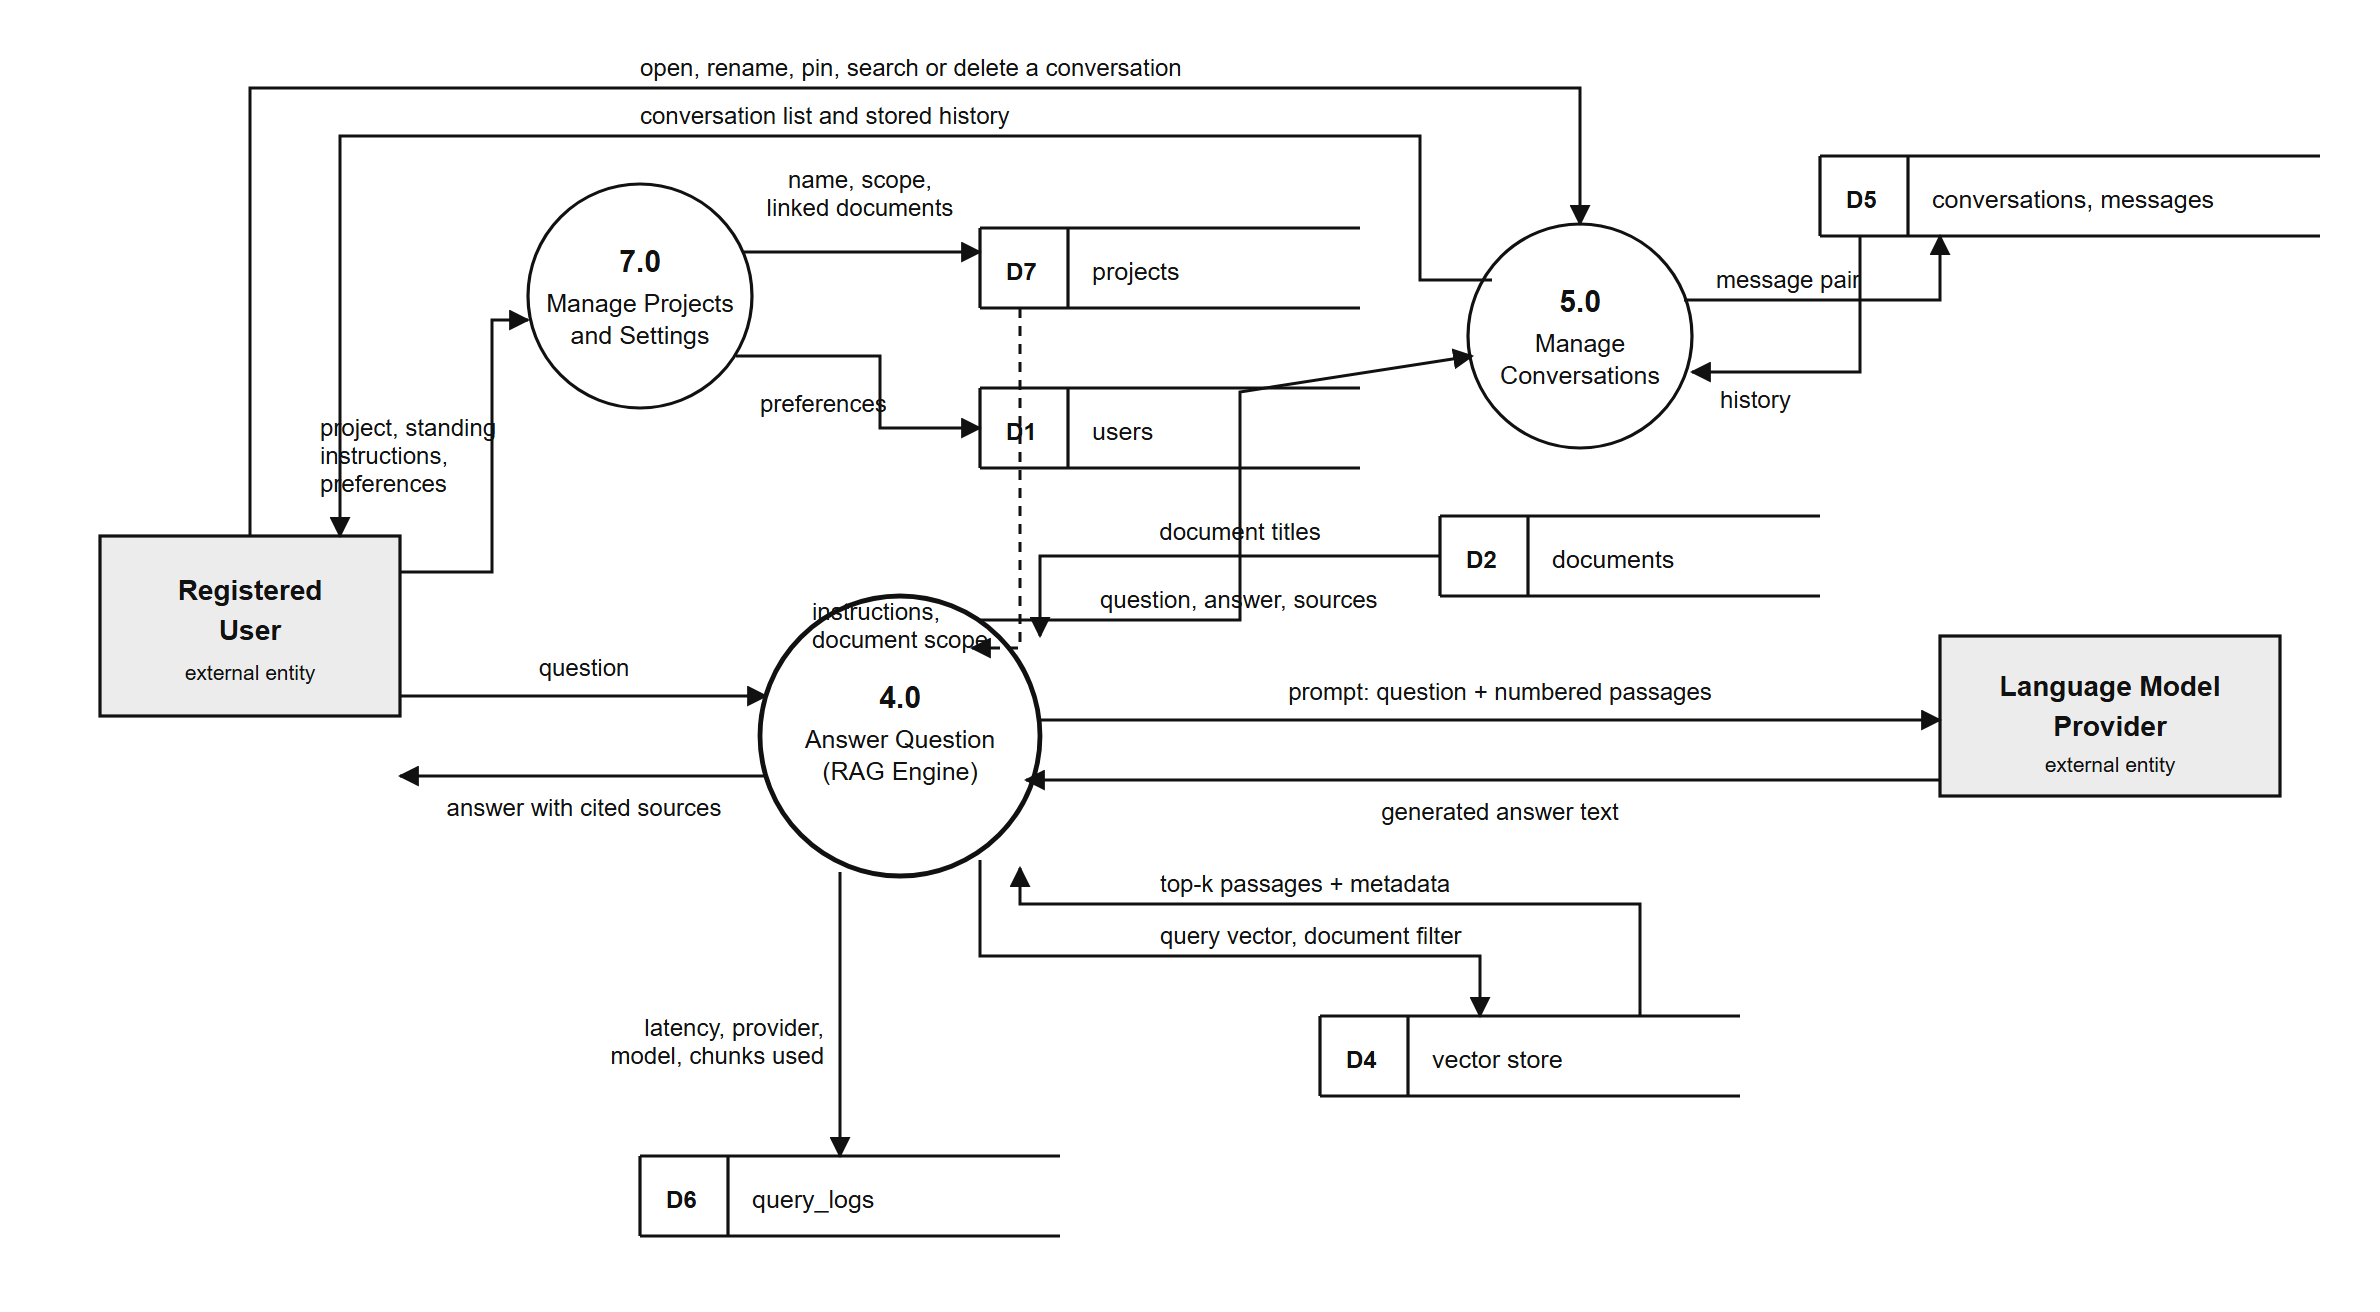
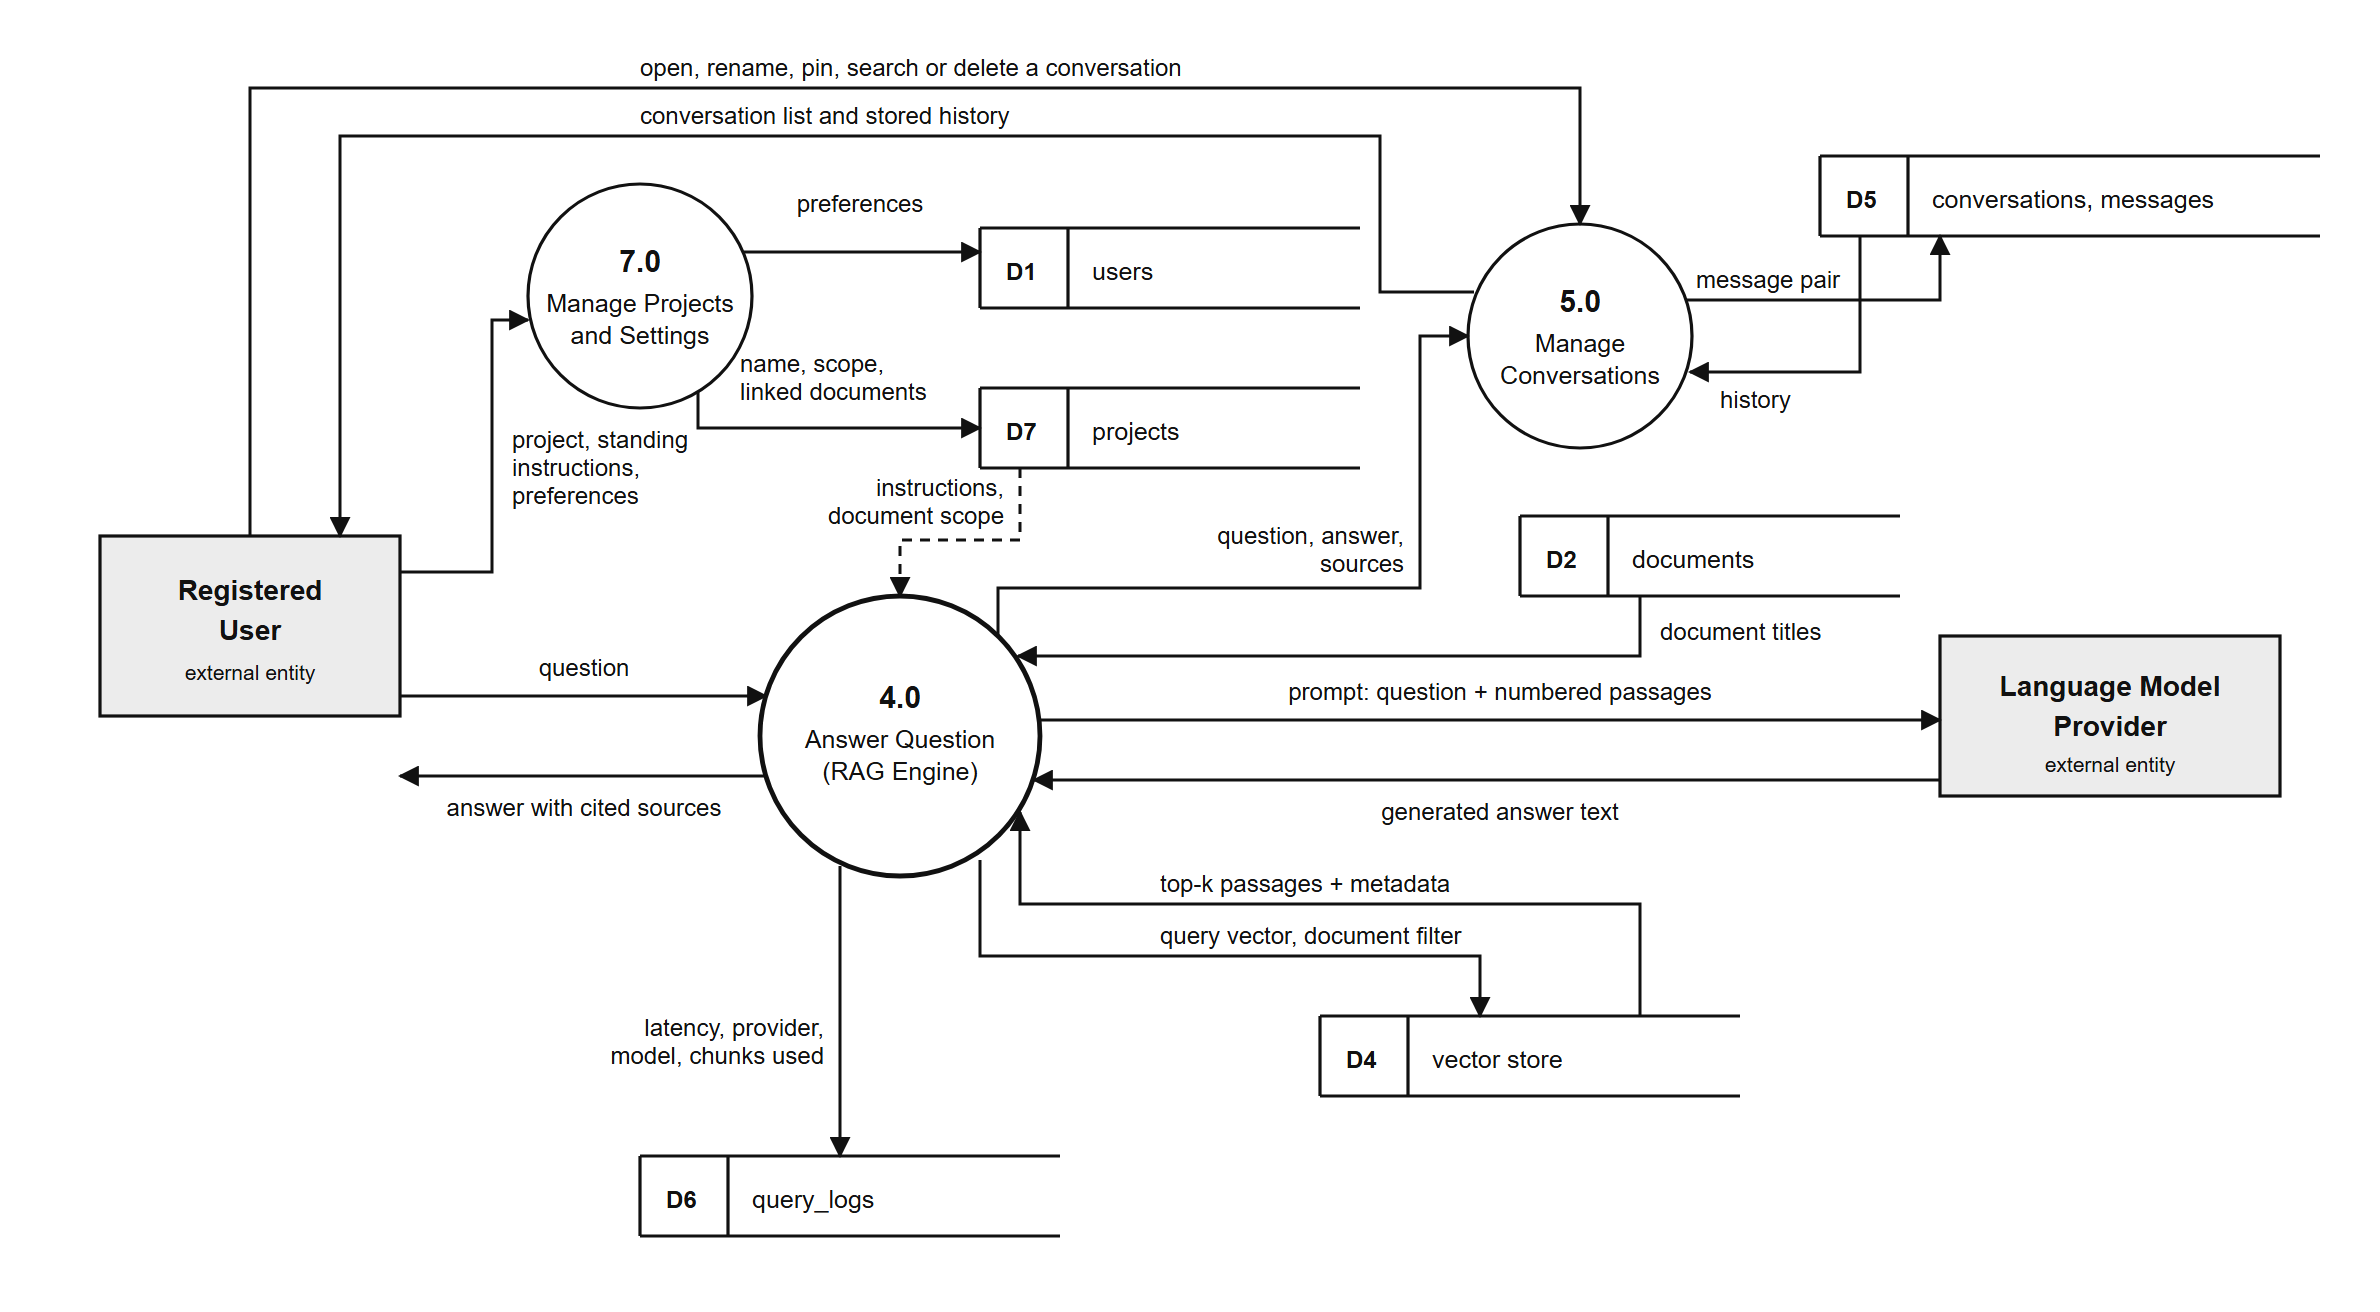
Straighten out the query data flow diagram
Three lines were drawn through things they should have gone around: the
project-scope flow ran through the users store, the answer that goes back to
Manage Conversations ran through it as well, and the scope label sat on top of
the RAG process circle.  Swapping the two stores lets the scope flow drop
cleanly, and the conversation and document-title flows now have their own
corridors.  Two arrowheads that stopped short of the circle now touch it.

Claude-Session: https://claude.ai/code/session_01CnkirM2DMrX72cA6mCPqpq

diff --git a/report/assets/diagrams-src/dfd-1b-query.html b/report/assets/diagrams-src/dfd-1b-query.html
@@ -49,18 +49,24 @@
   <text class="proc mid" x="770" y="174">Conversations</text>
 
   <!-- ============ data stores ============ -->
+  <!-- D1 sits above D7 so that the project scope can drop straight down to 4.0
+       without crossing another store. -->
   <g>
     <path class="store-line" d="M 470 96 L 660 96 M 470 136 L 660 136 M 470 96 L 470 136 M 514 96 L 514 136"/>
-    <text class="store-id" x="483" y="122">D7</text>
-    <text class="store-name" x="526" y="122">projects</text>
+    <text class="store-id" x="483" y="122">D1</text>
+    <text class="store-name" x="526" y="122">users</text>
 
     <path class="store-line" d="M 470 176 L 660 176 M 470 216 L 660 216 M 470 176 L 470 216 M 514 176 L 514 216"/>
-    <text class="store-id" x="483" y="202">D1</text>
-    <text class="store-name" x="526" y="202">users</text>
+    <text class="store-id" x="483" y="202">D7</text>
+    <text class="store-name" x="526" y="202">projects</text>
 
     <path class="store-line" d="M 890 60 L 1140 60 M 890 100 L 1140 100 M 890 60 L 890 100 M 934 60 L 934 100"/>
     <text class="store-id" x="903" y="86">D5</text>
     <text class="store-name" x="946" y="86">conversations, messages</text>
+
+    <path class="store-line" d="M 740 240 L 930 240 M 740 280 L 930 280 M 740 240 L 740 280 M 784 240 L 784 280"/>
+    <text class="store-id" x="753" y="266">D2</text>
+    <text class="store-name" x="796" y="266">documents</text>
 
     <path class="store-line" d="M 640 490 L 850 490 M 640 530 L 850 530 M 640 490 L 640 530 M 684 490 L 684 530"/>
     <text class="store-id" x="653" y="516">D4</text>
@@ -69,33 +75,29 @@
     <path class="store-line" d="M 300 560 L 510 560 M 300 600 L 510 600 M 300 560 L 300 600 M 344 560 L 344 600"/>
     <text class="store-id" x="313" y="586">D6</text>
     <text class="store-name" x="356" y="586">query_logs</text>
-
-    <path class="store-line" d="M 700 240 L 890 240 M 700 280 L 890 280 M 700 240 L 700 280 M 744 240 L 744 280"/>
-    <text class="store-id" x="713" y="266">D2</text>
-    <text class="store-name" x="756" y="266">documents</text>
   </g>
 
   <!-- ============ flows ============ -->
 
   <!-- user -> 7.0 -->
   <path class="flow" d="M 180 268 L 226 268 L 226 142 L 244 142"/>
-  <text class="flow-label" x="140" y="200">project, standing</text>
-  <text class="flow-label" x="140" y="214">instructions,</text>
-  <text class="flow-label" x="140" y="228">preferences</text>
-
-  <!-- 7.0 -> D7 -->
-  <path class="flow" d="M 352 108 L 470 108"/>
-  <text class="flow-label mid" x="410" y="76">name, scope,</text>
-  <text class="flow-label mid" x="410" y="90">linked documents</text>
+  <text class="flow-label" x="236" y="206">project, standing</text>
+  <text class="flow-label" x="236" y="220">instructions,</text>
+  <text class="flow-label" x="236" y="234">preferences</text>
 
   <!-- 7.0 -> D1 -->
-  <path class="flow" d="M 348 160 L 420 160 L 420 196 L 470 196"/>
-  <text class="flow-label" x="360" y="188">preferences</text>
+  <path class="flow" d="M 352 108 L 470 108"/>
+  <text class="flow-label mid" x="410" y="88">preferences</text>
+
+  <!-- 7.0 -> D7 -->
+  <path class="flow" d="M 329 178 L 329 196 L 470 196"/>
+  <text class="flow-label" x="350" y="168">name, scope,</text>
+  <text class="flow-label" x="350" y="182">linked documents</text>
 
   <!-- D7 -> 4.0 : the project supplies scope and instructions -->
-  <path class="flow dashed" d="M 490 136 L 490 306 L 466 306"/>
-  <text class="flow-label" x="386" y="292">instructions,</text>
-  <text class="flow-label" x="386" y="306">document scope</text>
+  <path class="flow dashed" d="M 490 216 L 490 252 L 430 252 L 430 280"/>
+  <text class="flow-label end" x="482" y="230">instructions,</text>
+  <text class="flow-label end" x="482" y="244">document scope</text>
 
   <!-- user -> 4.0 -->
   <path class="flow" d="M 180 330 L 363 330"/>
@@ -110,7 +112,7 @@
   <text class="flow-label" x="560" y="454">query vector, document filter</text>
 
   <!-- D4 -> 4.0 -->
-  <path class="flow" d="M 800 490 L 800 434 L 490 434 L 490 416"/>
+  <path class="flow" d="M 800 490 L 800 434 L 490 434 L 490 388"/>
   <text class="flow-label" x="560" y="428">top-k passages + metadata</text>
 
   <!-- 4.0 -> provider -->
@@ -118,28 +120,29 @@
   <text class="flow-label mid" x="730" y="332">prompt: question + numbered passages</text>
 
   <!-- provider -> 4.0 -->
-  <path class="flow" d="M 950 372 L 493 372"/>
+  <path class="flow" d="M 950 372 L 497 372"/>
   <text class="flow-label mid" x="730" y="392">generated answer text</text>
 
   <!-- 4.0 -> D6 -->
-  <path class="flow" d="M 400 418 L 400 560"/>
+  <path class="flow" d="M 400 415 L 400 560"/>
   <text class="flow-label end" x="392" y="500">latency, provider,</text>
   <text class="flow-label end" x="392" y="514">model, chunks used</text>
 
   <!-- 4.0 reads D2 for the titles it cites -->
-  <path class="flow" d="M 700 260 L 500 260 L 500 300"/>
-  <text class="flow-label mid" x="600" y="252">document titles</text>
+  <path class="flow" d="M 800 280 L 800 310 L 489 310"/>
+  <text class="flow-label" x="810" y="302">document titles</text>
 
   <!-- 4.0 -> 5.0 -->
-  <path class="flow" d="M 470 292 L 600 292 L 600 178 L 716 160"/>
-  <text class="flow-label" x="530" y="286">question, answer, sources</text>
+  <path class="flow" d="M 479 300 L 479 276 L 690 276 L 690 150 L 714 150"/>
+  <text class="flow-label end" x="682" y="254">question, answer,</text>
+  <text class="flow-label end" x="682" y="268">sources</text>
 
   <!-- 5.0 -> D5 -->
-  <path class="flow" d="M 822 132 L 950 132 L 950 100"/>
-  <text class="flow-label" x="838" y="126">message pair</text>
+  <path class="flow" d="M 823 132 L 950 132 L 950 100"/>
+  <text class="flow-label" x="828" y="126">message pair</text>
 
   <!-- D5 -> 5.0 -->
-  <path class="flow" d="M 910 100 L 910 168 L 826 168"/>
+  <path class="flow" d="M 910 100 L 910 168 L 825 168"/>
   <text class="flow-label" x="840" y="186">history</text>
 
   <!-- user -> 5.0 -->
@@ -147,7 +150,7 @@
   <text class="flow-label" x="300" y="20">open, rename, pin, search or delete a conversation</text>
 
   <!-- 5.0 -> user -->
-  <path class="flow" d="M 726 122 L 690 122 L 690 50 L 150 50 L 150 250"/>
+  <path class="flow" d="M 717 128 L 670 128 L 670 50 L 150 50 L 150 250"/>
   <text class="flow-label" x="300" y="44">conversation list and stored history</text>
 </svg>
 </div>
